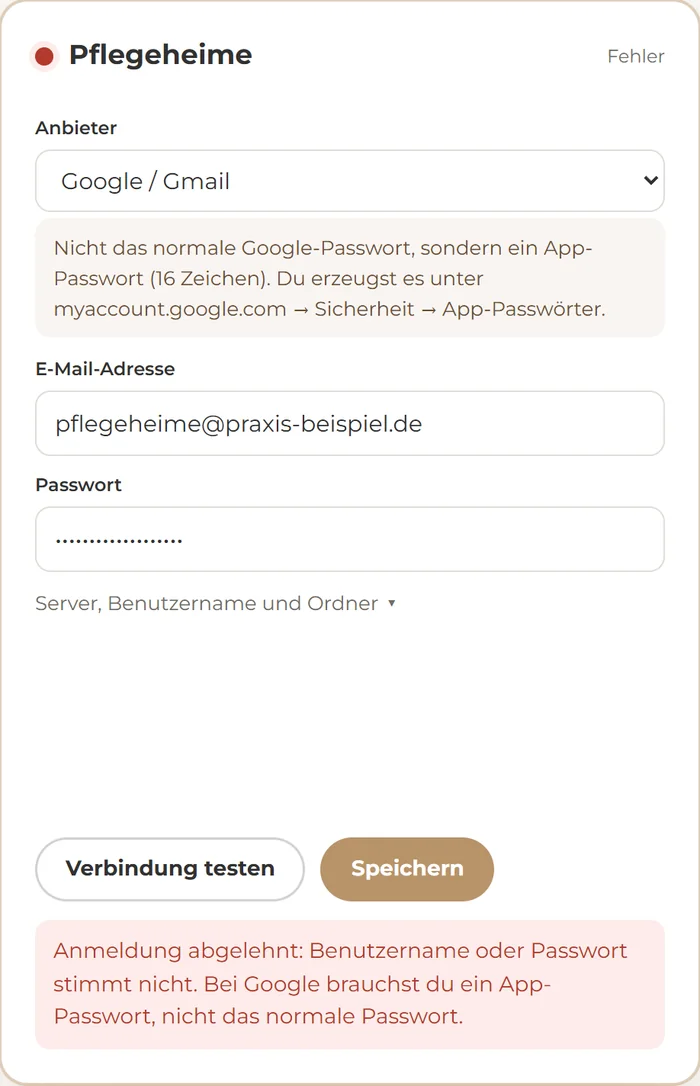
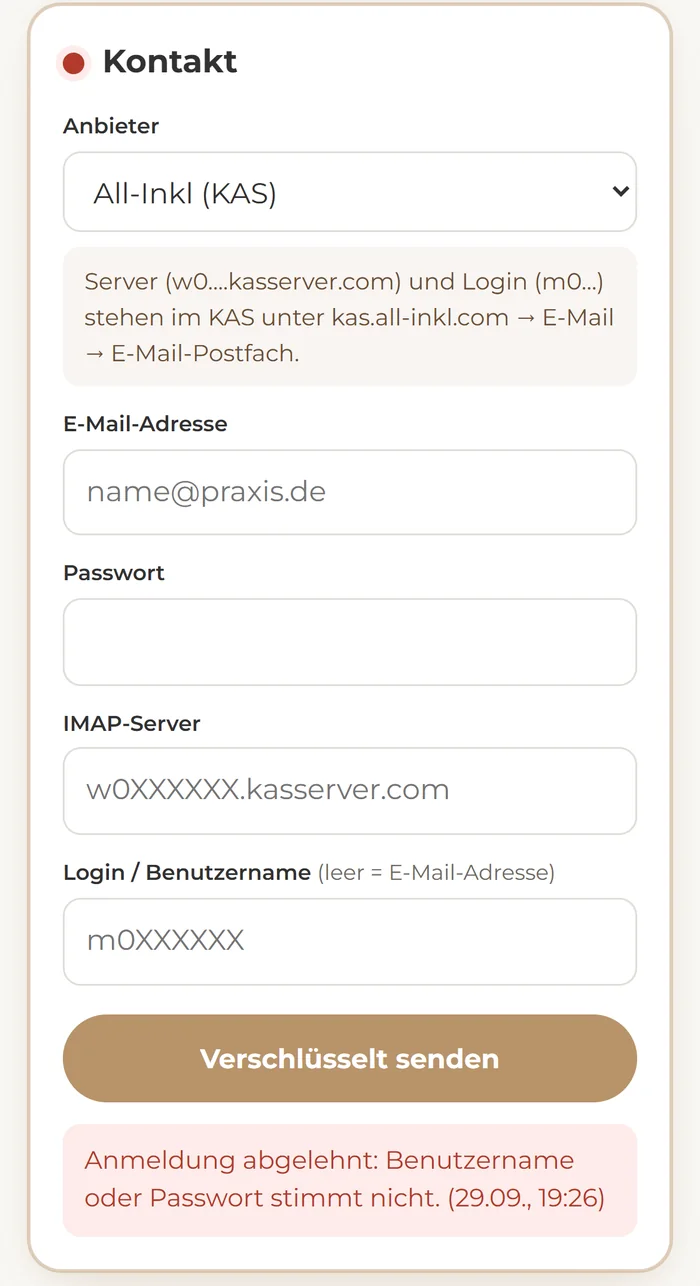
shared-documents: praxkas-verbindungen auf Handy-Link umgestellt

diff --git a/shared-documents/praxkas-verbindungen/index.html b/shared-documents/praxkas-verbindungen/index.html
@@ -35,7 +35,7 @@ a{color:var(--accent)}
 .sym{font-family:"Segoe UI Symbol","Segoe UI",system-ui,sans-serif}
 header.top{display:flex;align-items:center;justify-content:flex-end;gap:16px;padding:20px 0}
 .top-meta{font-size:12px;color:var(--muted);letter-spacing:.08em;text-transform:uppercase;font-weight:600}
-.hero{padding:28px 0 36px}
+.hero{padding:48px 0 36px}
 .lead{font-size:clamp(17px,1.8vw,20px);color:var(--muted)}
 .safe{display:flex;gap:14px;align-items:flex-start;padding:18px 20px;border-radius:var(--r-md);background:rgba(30,158,106,.08);border:1px solid rgba(30,158,106,.25);margin-top:18px}
 .safe svg{flex:none;margin-top:3px}
@@ -52,6 +52,7 @@ header.top{display:flex;align-items:center;justify-content:flex-end;gap:16px;pad
 .card .warn{margin-top:10px;font-size:14px;color:#8A5A0E;background:rgba(199,122,17,.10);border-radius:var(--r-sm);padding:8px 12px}
 .split{display:grid;grid-template-columns:1fr 300px;gap:24px;align-items:start}
 .split .shot{margin-top:0}
+.shot.phone{max-width:300px;justify-self:center;border-radius:22px}
 footer{padding:30px 0 60px;border-top:1px solid var(--line);color:var(--muted);font-size:14px}
 @media (hover:hover) and (pointer:fine){ .card:hover{transform:var(--pop-lift);border-color:var(--accent-strong);box-shadow:var(--glow-strong)} }
 @media (max-width:760px){
@@ -64,26 +65,26 @@ footer{padding:30px 0 60px;border-top:1px solid var(--line);color:var(--muted);f
 </head>
 <body>
 <div class="wrap">
-  <header class="top">
-    <div class="top-meta">Praxkas · Kurzanleitung</div>
-  </header>
 
   <section class="hero">
     <span class="eyebrow">Praxkas · Kurzanleitung</span>
     <h1>Die Praxis-Postfächer mit Praxkas verbinden</h1>
-    <p class="lead">Alles andere ist vorbereitet. Es fehlen nur die Zugänge zu den vier Postfächern. Du brauchst dafür etwa eine Viertelstunde, am Praxis-PC.</p>
+    <p class="lead">Alles andere ist vorbereitet. Es fehlen nur die Zugänge zu den vier Postfächern. Du trägst sie über einen Link ein, den Kerem dir schickt, bequem vom Handy aus. Das dauert etwa eine Viertelstunde.</p>
     <div class="safe">
       <svg width="22" height="22" viewBox="0 0 24 24" fill="none" stroke="#1E9E6A" stroke-width="2" stroke-linecap="round" stroke-linejoin="round"><rect x="4" y="10" width="16" height="11" rx="2"/><path d="M8 10V7a4 4 0 0 1 8 0v3"/></svg>
-      <p><strong>Deine Zugangsdaten bleiben auf dem Praxis-PC.</strong> Sie werden dort verschlüsselt gespeichert. Der Schlüssel zum Entschlüsseln liegt getrennt davon, ebenfalls nur auf diesem PC. Die Daten gehen nirgendwo anders hin als an den jeweiligen Mailserver, auch nicht an Kerem oder ins Internet.</p>
+      <p><strong>Deine Zugangsdaten werden schon auf deinem Handy verschlüsselt.</strong> Lesen kann sie nur der Praxkas-PC. Er holt sie ab, prüft die Verbindung und speichert sie dort wieder verschlüsselt. Auf dem Weg dorthin und auf dem Server liegt nur unlesbarer Datensalat, der nach dem Abholen gelöscht wird. Den Link bitte nicht weitergeben.</p>
     </div>
   </section>
 
   <section class="step">
     <span class="num">1</span>
-    <div>
-      <h2>Einrichtung öffnen</h2>
-      <p>Am Praxis-PC auf dem Desktop <strong>„Verbindungen einrichten“</strong> doppelt anklicken. Ein schwarzes Fenster geht auf, das bitte offen lassen. Kurz danach öffnet sich im Browser diese Seite:</p>
-      <div class="shot"><img src="img/einrichtung.webp" alt="Seite Verbindungen einrichten mit KI-Schlüssel und vier Postfächern" loading="lazy"></div>
+    <div class="split">
+      <div>
+        <h2>Link öffnen</h2>
+        <p>Öffne den Link, den dir Kerem geschickt hat, am besten auf dem Handy. Es geht aber auch am Computer. Du siehst fünf Karten: den KI-Schlüssel und die vier Postfächer.</p>
+        <p>Du musst nicht alles auf einmal machen. Jede Karte wird für sich gesendet.</p>
+      </div>
+      <div class="shot phone"><img src="img/handy.webp" alt="Handy-Seite Postfächer verbinden" loading="lazy"></div>
     </div>
   </section>
 
@@ -124,7 +125,7 @@ footer{padding:30px 0 60px;border-top:1px solid var(--line);color:var(--muted);f
           <h3>KI-Schlüssel</h3>
           <ul>
             <li>Ein langer Schlüssel, der mit <strong>sk-ant-</strong> beginnt. Den schickt dir Kerem.</li>
-            <li>Ganz oben einfügen und „Testen &amp; speichern“ klicken.</li>
+            <li>In die oberste Karte einfügen und senden.</li>
           </ul>
         </div>
       </div>
@@ -135,11 +136,11 @@ footer{padding:30px 0 60px;border-top:1px solid var(--line);color:var(--muted);f
     <span class="num">3</span>
     <div class="split">
       <div>
-        <h2>Testen, dann speichern</h2>
-        <p>Pro Postfach erst <strong>„Verbindung testen“</strong>. Wenn es klappt, steht dort, wie viele Mails im Postfach liegen. Dann <strong>„Speichern“</strong>, der Punkt neben dem Namen wird grün.</p>
-        <p>Klappt es nicht, steht in Rot, woran es liegt, meistens am falschen Passwort-Typ. Die Seite liest dabei keine Mails und markiert nichts als gelesen.</p>
+        <h2>Senden, kurz warten</h2>
+        <p>Tippe bei jeder Karte auf <strong>„Verschlüsselt senden“</strong>. Der Praxkas-PC prüft die Verbindung innerhalb von ein paar Minuten. Danach wird der Punkt <strong>grün</strong>, und dort steht, wie viele Mails im Postfach liegen.</p>
+        <p>Wird er <strong>rot</strong>, steht dort, woran es liegt, meistens am falschen Passwort-Typ. Dann die Daten korrigieren und nochmal senden. Dabei werden keine Mails gelesen und nichts als gelesen markiert.</p>
       </div>
-      <div class="shot"><img src="img/fehler.webp" alt="Beispiel einer Fehlermeldung beim Test" loading="lazy"></div>
+      <div class="shot phone"><img src="img/fehler.webp" alt="Beispiel: rote Rückmeldung bei falschem Passwort" loading="lazy"></div>
     </div>
   </section>
 
@@ -147,8 +148,8 @@ footer{padding:30px 0 60px;border-top:1px solid var(--line);color:var(--muted);f
     <span class="num">4</span>
     <div>
       <h2>Fertig</h2>
-      <p>Unten auf <strong>„Fertig“</strong> klicken, das Fenster schließt sich. Danach Praxkas einmal neu starten. Du musst nicht alles auf einmal machen: Die Seite merkt sich, was schon gespeichert ist.</p>
-      <p>Wenn etwas hakt, schick Kerem einfach ein Foto vom Bildschirm.</p>
+      <p>Wenn alle Punkte grün sind, bist du fertig. Die Seite kannst du jederzeit wieder öffnen, um den Stand zu sehen oder ein Passwort zu ändern.</p>
+      <p>Wenn etwas hakt, schick Kerem einfach einen Screenshot.</p>
     </div>
   </section>
 
